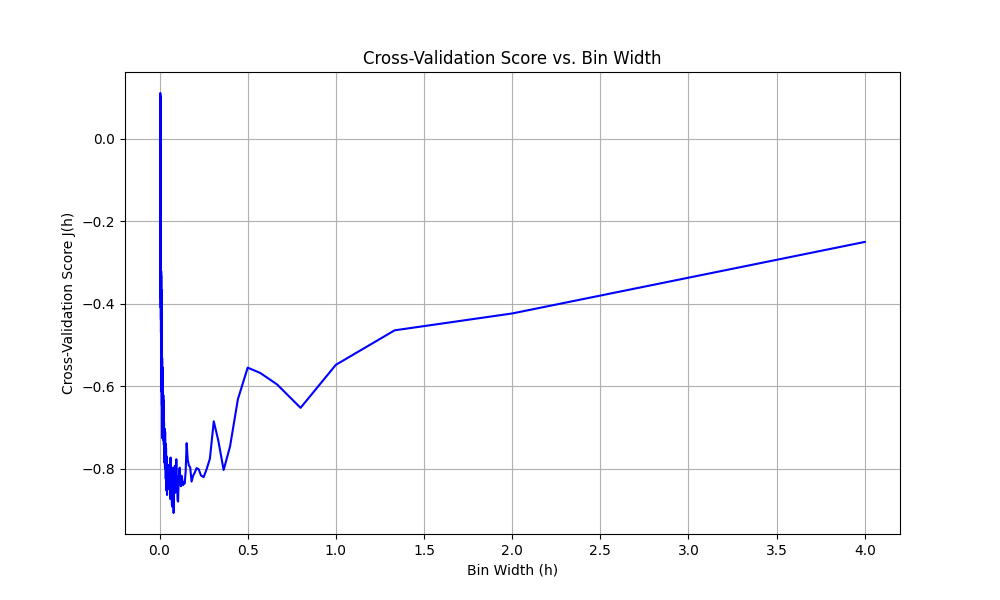
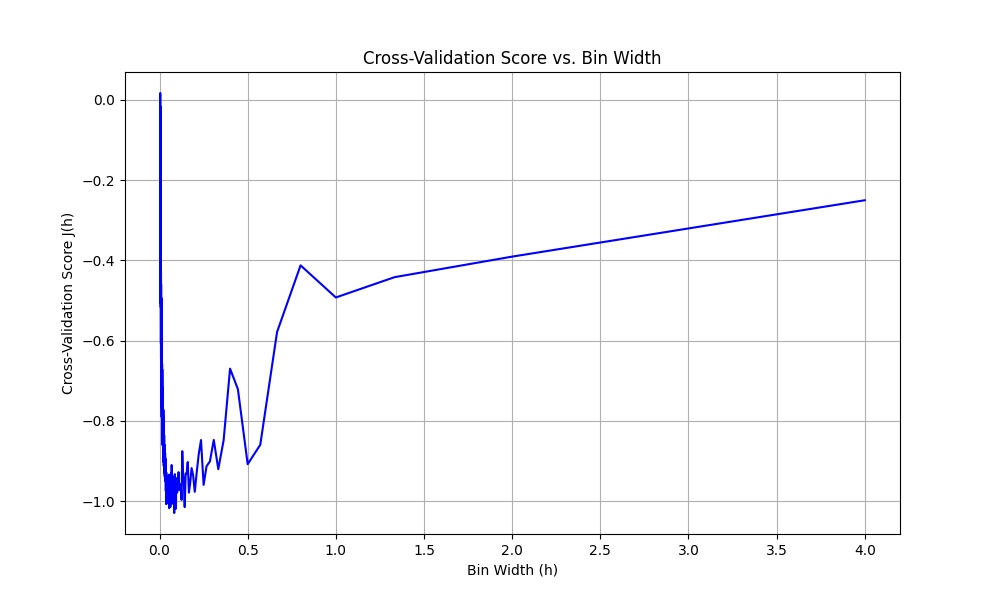
q1 reviewed

diff --git a/Assignment3/q1/1.py b/Assignment3/q1/1.py
@@ -1,45 +1,46 @@
-#Importing libraries
 import pandas as pd
 import matplotlib.pyplot as plt
 import numpy as np
 
-
 #Reading data from csv files and filtering data
-csv_file = r'C:\Users\aksgu\Desktop\CS215_assignments\Assignment3\q1\data.csv' 
-# csv_file = '/mnt/c/Users/aksgu/Desktop/CS215_assignments/Assignment3/q1/data.csv'
+csv_file = 'data.csv' 
 
 df = pd.read_csv(csv_file, skiprows=12)
-distances = df['D (Mpc)'].dropna()  # Remove NaN values, if any
-distances = distances[:1501]  # Keep only the first 1500 rows
+
+distances = df['D (Mpc)']
+distances = distances[:1500]  # Keep only the first 1500 rows
 distances=distances[distances<=4]   #keep only < 4Mpc
-plt.hist(distances, bins=10, edgecolor='black')   # Step 3: Plot a histogram with 10 bins
+
+# Part (a): Plot a histogram with 10 bins
+plt.figure(figsize=(10, 6))
+plt.hist(distances, bins=10, range=[0,4], alpha=0.6, color='blue', edgecolor='black')
 plt.title('Histogram of Galaxy Distances (filtered)')
 plt.xlabel('Distance (Mpc)')
 plt.ylabel('Number of Galaxies')
 plt.savefig('images/10binhistogram.png')
 
-#Calculate the estimated probabilities for each bin
-hist, bin_edges = np.histogram(distances, bins=10)
+# Calculating the estimated probabilities for each bin
+hist, bin_edges = np.histogram(distances, bins=10, range=[0,4])
 n = len(distances)
 probabilities = hist / n
 
-print("Printing probability distributions for each bin=======================================")
+print("Printing probability distributions for each bin\n==============================================================================")
 for i, prob in enumerate(probabilities):
-    print(f'Bin {i + 1} [{bin_edges[i]} - {bin_edges[i+1]}]: Probability = {prob:.4f}')
-    
+    print(f'Bin {i + 1} [{bin_edges[i]:.2f} - {bin_edges[i+1]:.2f}]: Probability = {prob:.4f}')
+print("==============================================================================")
 
-#Calculating cross validation scores
+# Calculating cross validation scores
 bin_counts = range(1, 1001)
 cross_val_scores = []
 bin_widths = []
 
 for b in bin_counts:
-    h = 4/ b      #calculating bin width as max-min/number_of_bins as max-min is 4 based on filtering of data
-    bin_widths.append(h)  
-    hist, bin_edges = np.histogram(distances, bins=b, density=True)
-    probabilities = hist * np.diff(bin_edges) 
+    h = 4/ b      # calculating bin width as max-min/number_of_bins as max-min is 4 based on filtering of data
+    bin_widths.append(h)
+    hist, bin_edges = np.histogram(distances, bins=b, density=True, range=[0,4], )
+    probabilities = hist * h
     sum_squared_probabilities = np.sum(probabilities**2)
-    J_h = (2 / ((n - 1) * h)) - ((n + 1) / ((n - 1) * h)) * sum_squared_probabilities    #using above formula
+    J_h = (2 / ((n - 1) * h)) - ((n + 1) / ((n - 1) * h)) * sum_squared_probabilities    #using formula for cross validation estimator
     cross_val_scores.append(J_h)
 
 plt.figure(figsize=(10, 6))
@@ -50,17 +51,17 @@ plt.ylabel('Cross-Validation Score J(h)')
 plt.grid()
 plt.savefig('images/crossvalidation.png')
 
-
 #Finding optimal number of bins and plotting the optimal histogram
-optimal_index = np.argmin(cross_val_scores)     #minimising cross validation scores
+optimal_index = np.argmin(cross_val_scores)     # minimising cross validation scores
 optimal_bin_width = bin_widths[optimal_index]
 optimal_bins= int(4/optimal_bin_width)
+
 print("Optimal Bin width: ",optimal_bin_width)
 print("Optimal Number of bins: ",optimal_bins)
 plt.figure(figsize=(10, 6))
-plt.hist(distances, bins=optimal_bins, density=True, alpha=0.6, color='blue', edgecolor='black')
+plt.hist(distances, bins=optimal_bins, density=True,  range=[0,4], alpha=0.6, color='blue', edgecolor='black')
 plt.title('Histogram of Distances with Optimal Bin Width')
 plt.xlabel('Distance (D in Mpc)')
-plt.ylabel('Density')
+plt.ylabel('Probability Density')
 plt.grid()
 plt.savefig('images/optimalhistogram.png')
